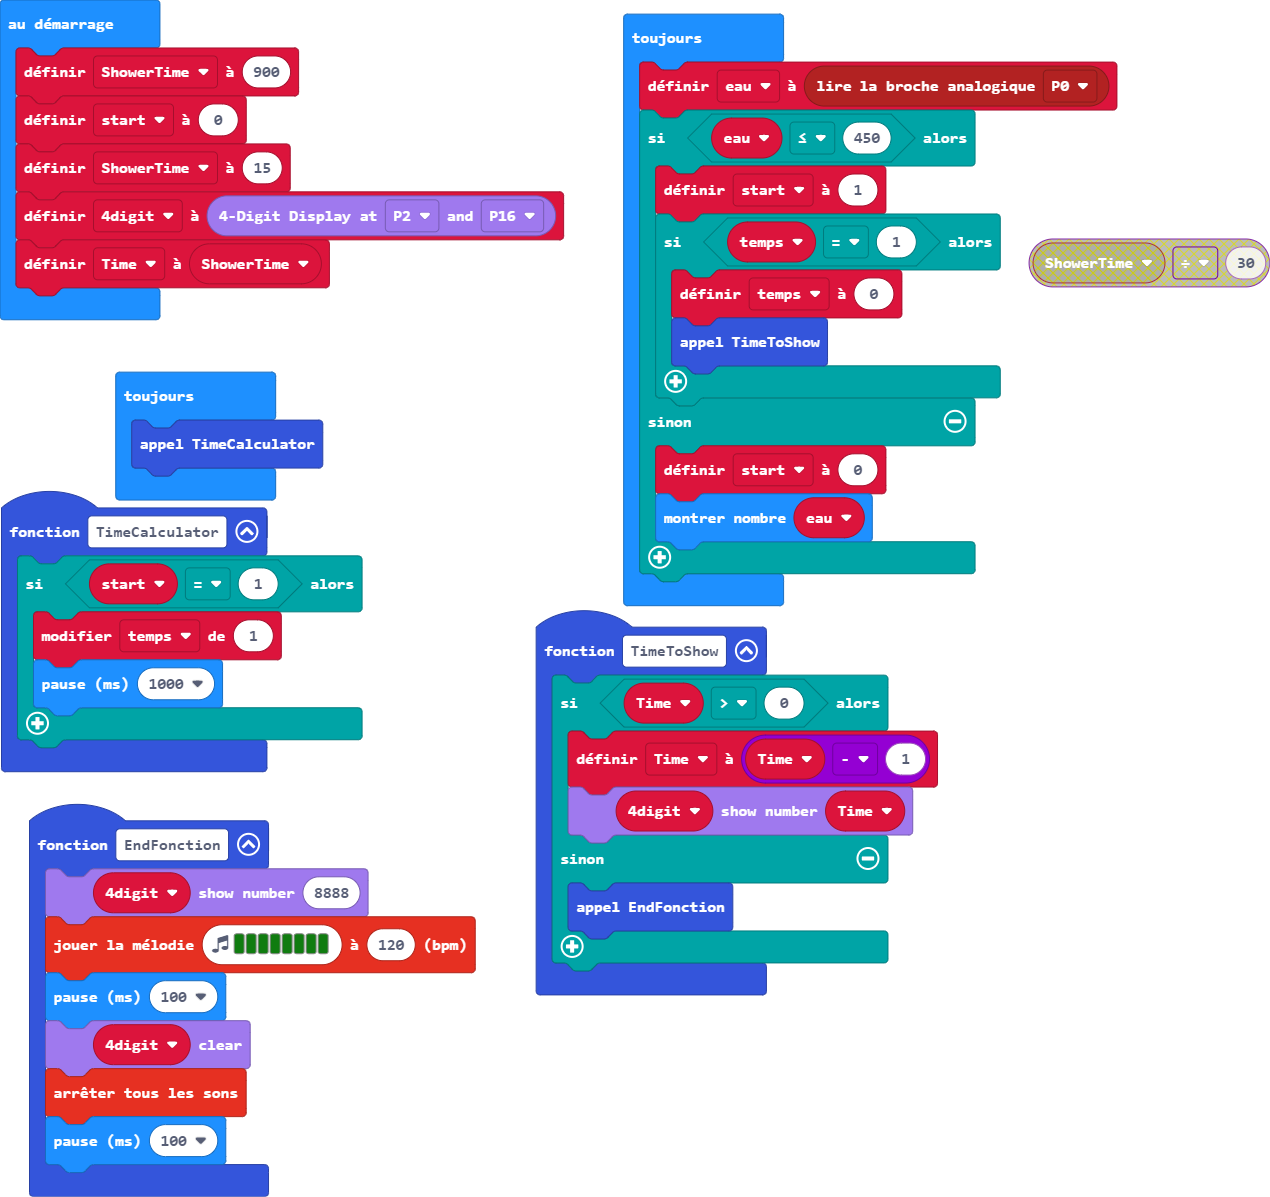
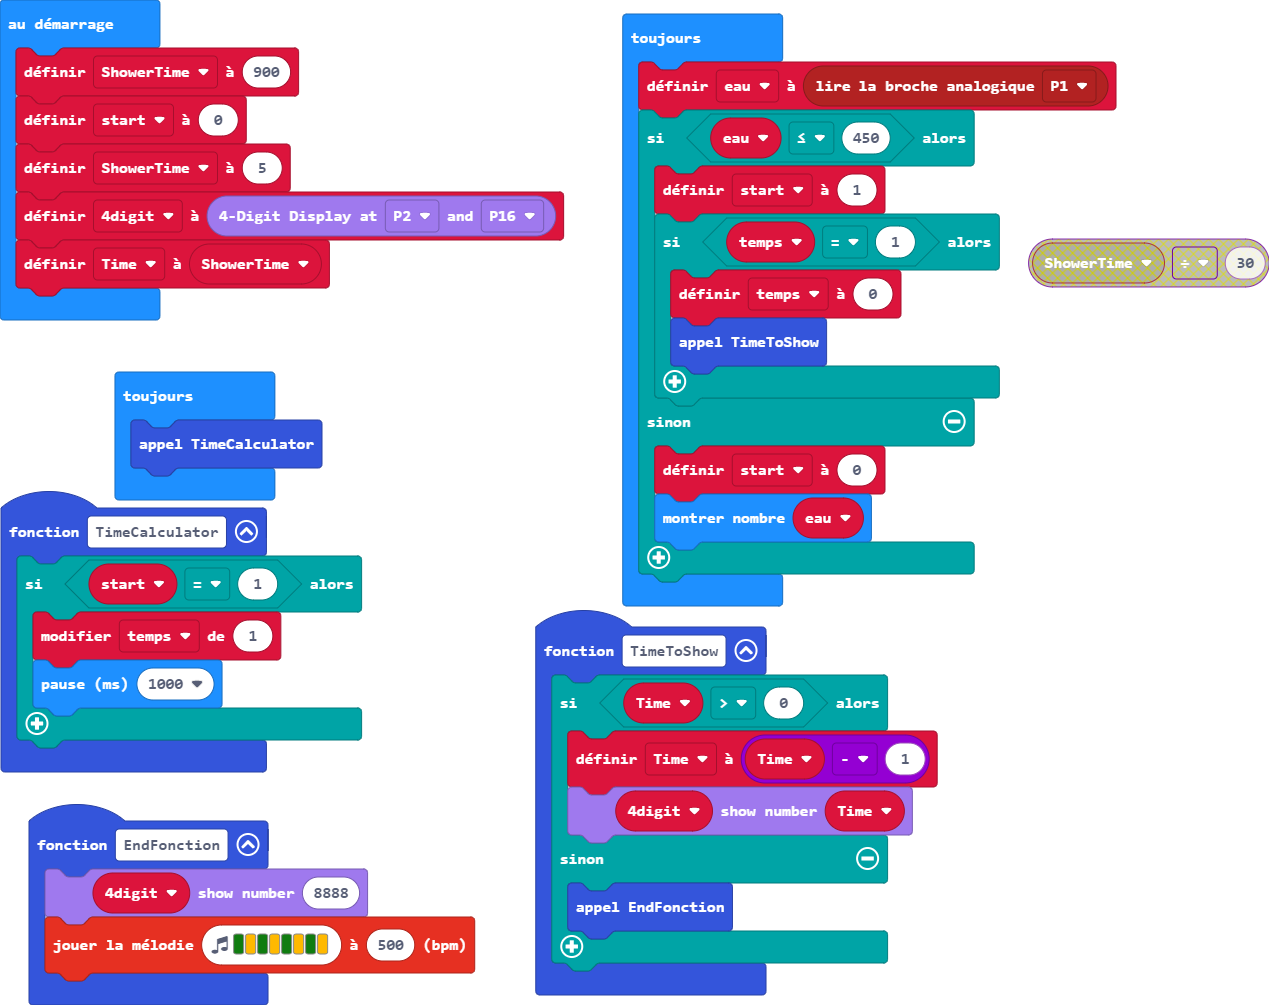
Mise à jour main.blocks, main.ts

diff --git a/main.ts b/main.ts
@@ -8,11 +8,7 @@ function TimeToShow () {
 }
 function EndFonction () {
     _4digit.show(8888)
-    music.playMelody("G G G G G G G G ", 120)
-    basic.pause(100)
-    _4digit.clear()
-    music.stopAllSounds()
-    basic.pause(100)
+    music.playMelody("G A G A G A G A ", 500)
 }
 function TimeCalculator () {
     if (start == 1) {
@@ -27,11 +23,11 @@ let _4digit: grove.TM1637 = null
 let start = 0
 let ShowerTime = 900
 start = 0
-ShowerTime = 15
+ShowerTime = 5
 _4digit = grove.createDisplay(DigitalPin.P2, DigitalPin.P16)
 Time = ShowerTime
 basic.forever(function () {
-    eau = pins.analogReadPin(AnalogPin.P0)
+    eau = pins.analogReadPin(AnalogPin.P1)
     if (eau <= 450) {
         start = 1
         if (temps == 1) {
